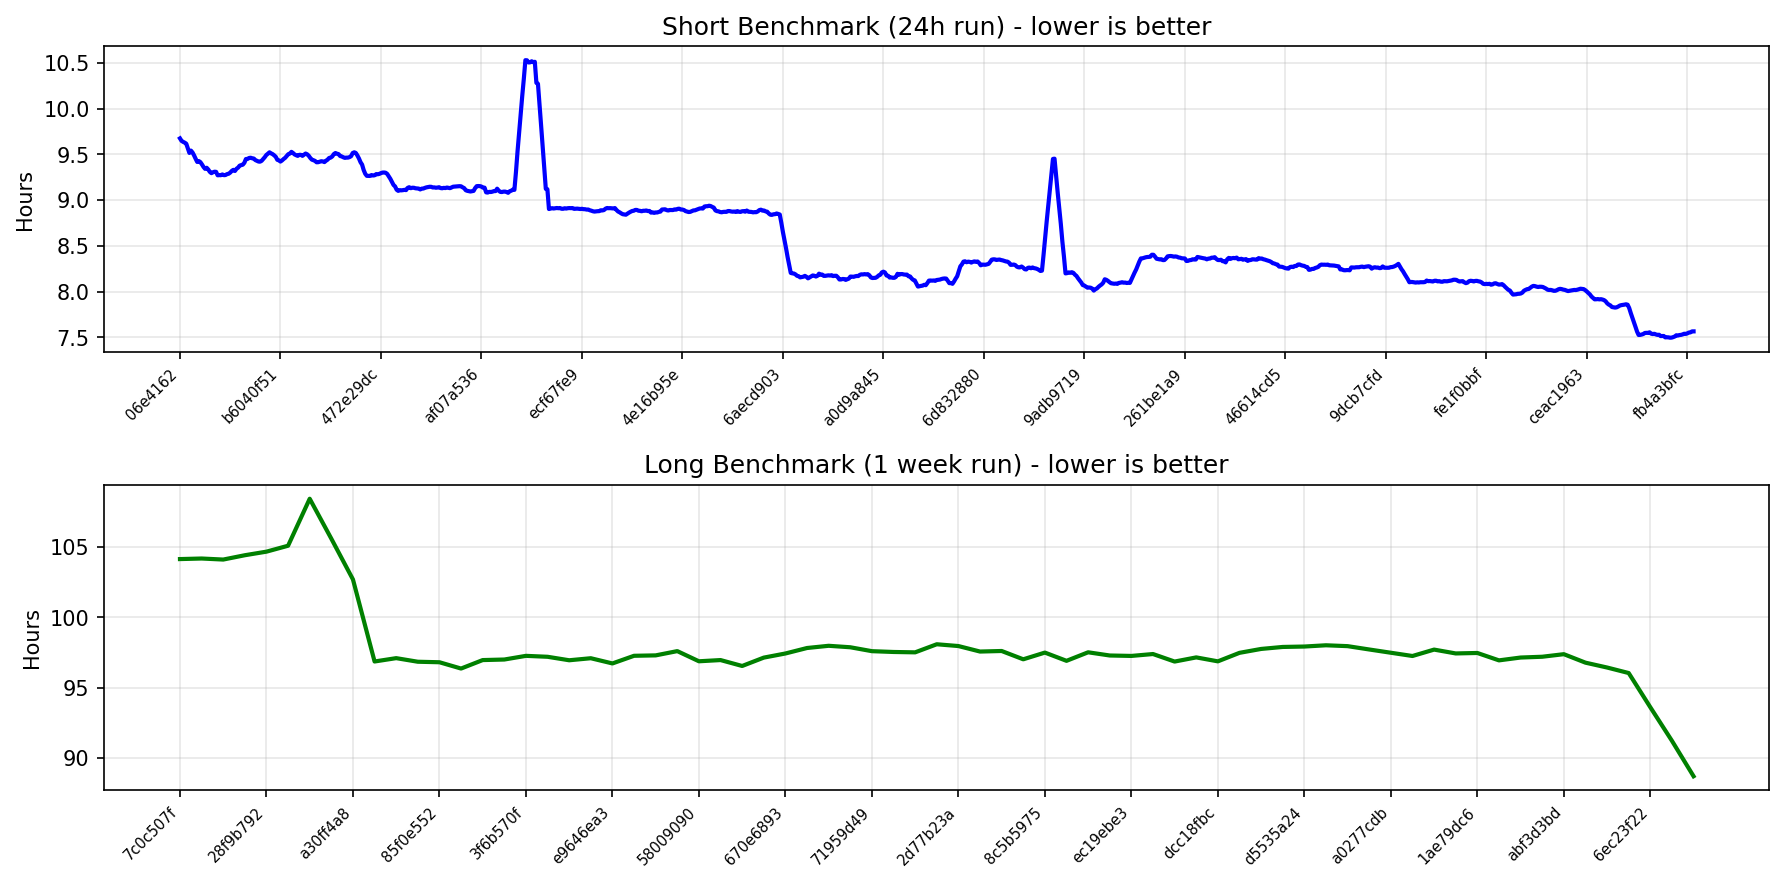
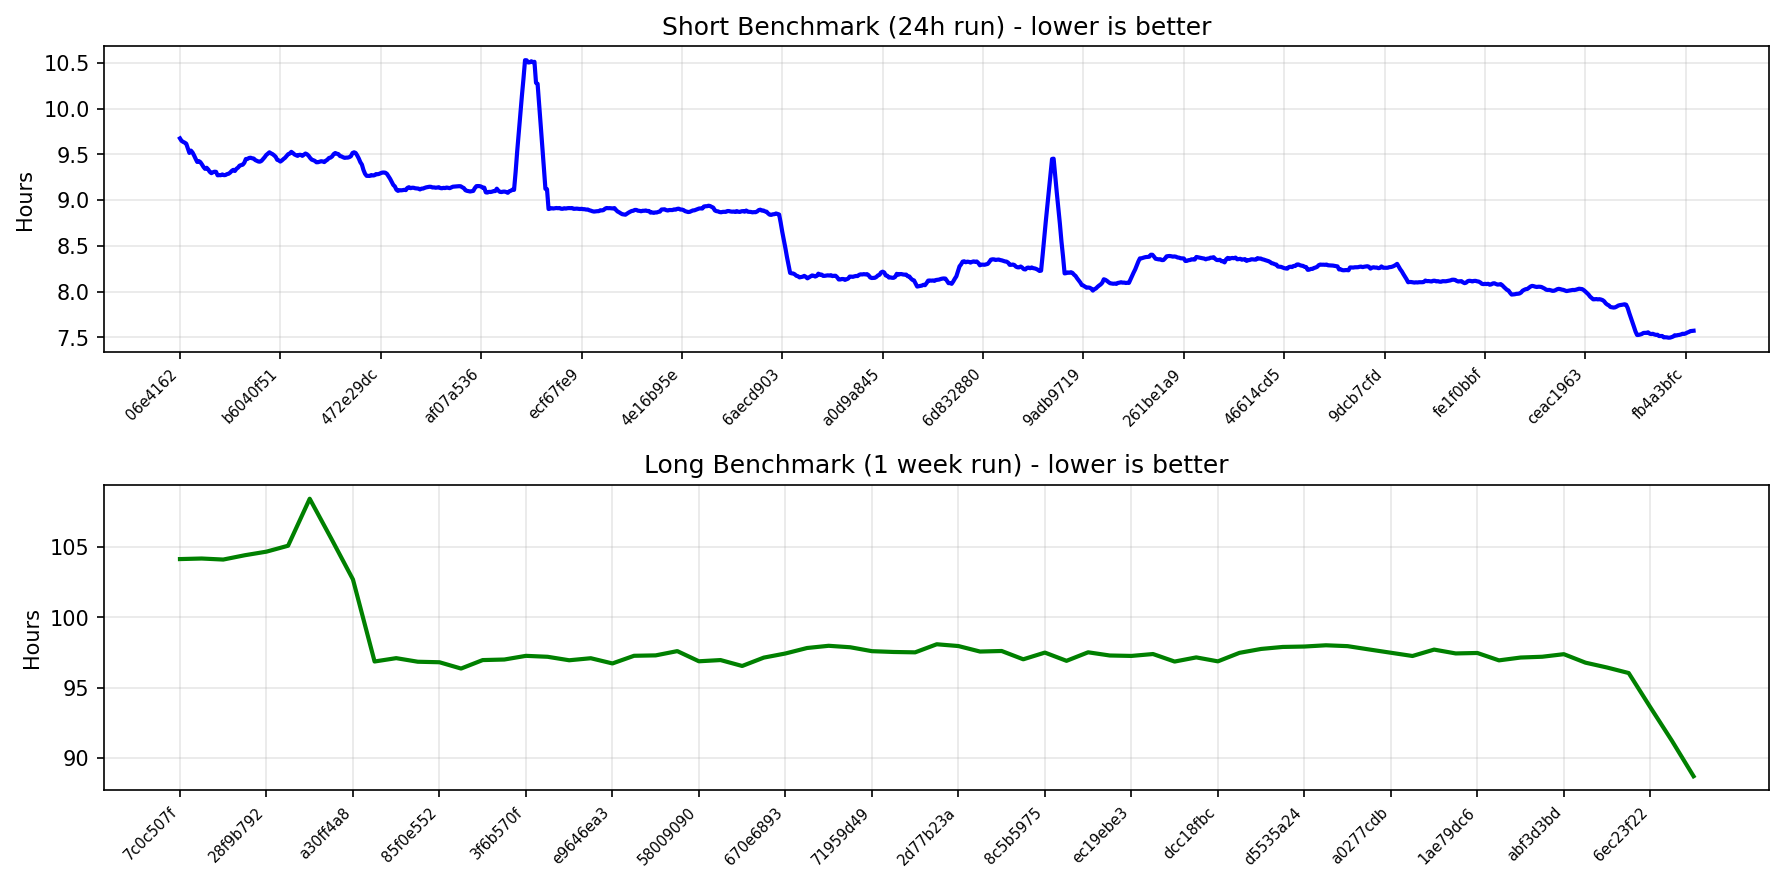
chore: update short benchmark Readme

diff --git a/README.md b/README.md
@@ -12,11 +12,11 @@ This repository contains various eth1 import benchmark metrics.
 
 | Generated At | Baseline SHA | Contender SHA | Baseline Time | Contender Time | Time Delta |
 |--------------|--------------|---------------|---------------|----------------|------------|
+| 2026-09-12 20:18:35 | [c80069e6](https://github.com/status-im/nimbus-eth1/commit/c80069e6) | [4202be00](https://github.com/status-im/nimbus-eth1/commit/4202be00) | 7h33m16s | 7h35m9s | 1m52s, 0.41% |
 | 2026-09-12 12:34:09 | [319c6488](https://github.com/status-im/nimbus-eth1/commit/319c6488) | [c80069e6](https://github.com/status-im/nimbus-eth1/commit/c80069e6) | 7h35m42s | 7h33m16s | -2m25s, -0.53% |
 | 2026-09-12 04:47:19 | [5de8f6bb](https://github.com/status-im/nimbus-eth1/commit/5de8f6bb) | [319c6488](https://github.com/status-im/nimbus-eth1/commit/319c6488) | 7h32m30s | 7h35m42s | 3m11s, 0.71% |
 | 2026-09-11 21:03:37 | [e3161fd9](https://github.com/status-im/nimbus-eth1/commit/e3161fd9) | [5de8f6bb](https://github.com/status-im/nimbus-eth1/commit/5de8f6bb) | 7h34m56s | 7h32m30s | -2m25s, -0.53% |
 | 2026-09-11 13:17:22 | [fb4a3bfc](https://github.com/status-im/nimbus-eth1/commit/fb4a3bfc) | [e3161fd9](https://github.com/status-im/nimbus-eth1/commit/e3161fd9) | 7h32m25s | 7h34m56s | 2m30s, 0.56% |
-| 2026-09-11 05:33:57 | [688e3a58](https://github.com/status-im/nimbus-eth1/commit/688e3a58) | [fb4a3bfc](https://github.com/status-im/nimbus-eth1/commit/fb4a3bfc) | 7h31m12s | 7h32m25s | 1m13s, 0.27% |
 
 ## Latest 5 Long Benchmarks (1 Week Run)
 
